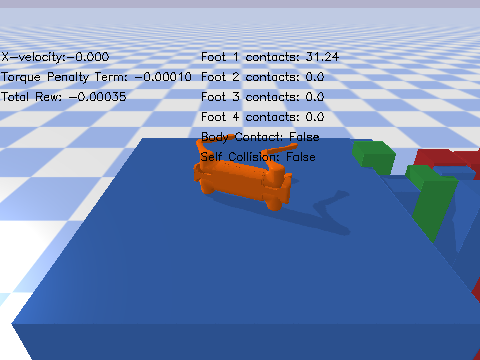
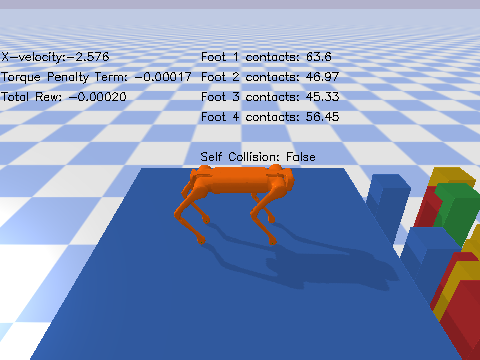
push before running the env for the first time

diff --git a/gym_aliengo/envs/aliengo_stepping_stones.py b/gym_aliengo/envs/aliengo_stepping_stones.py
@@ -25,10 +25,10 @@ class AliengoSteppingStones(gym.Env):
 
         # stepping stone parameters
         self.height = 1.0 # height of the heightfield
-        self.course_length = 10.0 # total distance from edge of start block to edge of end block
-        self.course_width = 2.0 # widght of path of stepping stones
+        self.course_length = 10.0 # total distance from edge of start block to edge of end block 
+        self.course_width = 2.0 # widght of path of stepping stones 
         self.stone_length = 0.25 # side length of square stepping stones
-        self.stone_density = 6.0 # stones per square meter
+        self.stone_density = 6.0 # stones per square meter 
         self.stone_height_range = 0.25 # heights of stones will be within [self.height - this/2, self.height + this/2 ]
 
         # heightmap parameters
@@ -36,6 +36,7 @@ class AliengoSteppingStones(gym.Env):
         self.robot_position = 0.5 # distance of robot base origin from back edge of height map
         self.grid_spacing = 0.125 
         assert self.length%self.grid_spacing == 0
+        self.grid_len = int(self.length/self.grid_spacing) + 1
 
 
         if self._is_render:
@@ -50,7 +51,7 @@ class AliengoSteppingStones(gym.Env):
         # urdfFlags = p.URDF_USE_SELF_COLLISION
         self.plane = p.loadURDF(os.path.join(os.path.dirname(__file__), '../urdf/plane.urdf'), 
                                 physicsClientId=self.client)
-        self.plane = p.loadURDF(os.path.join(os.path.dirname(__file__), '../urdf/plane.urdf'), 
+        _ = p.loadURDF(os.path.join(os.path.dirname(__file__), '../urdf/plane.urdf'), 
                                 physicsClientId=self.fake_client)
 
         self.quadruped = aliengo.Aliengo(pybullet_client=self.client, 
@@ -80,7 +81,7 @@ class AliengoSteppingStones(gym.Env):
 
         # (50) applied torque, pos, and vel for each motor, base orientation (quaternions), foot normal forces,
         # cartesian base acceleration, base angular velocity
-        self.state_space_dim = 12 * 3 + 4 + 4 + 3 + 3 + int(self.length/self.grid_spacing)  
+        self.state_space_dim = 12 * 3 + 4 + 4 + 3 + 3 + self.grid_len**2
         self.num_joints = 18 # This includes fixed joints from the URDF
         self.action_space_dim = self.quadruped.n_motors # this remains unchanged
 
@@ -122,6 +123,8 @@ class AliengoSteppingStones(gym.Env):
     def _is_non_foot_ground_contact(self): #TODO if I ever use this in this env, account for stepping stone contact
         """Detect if any parts of the robot, other than the feet, are touching the ground."""
 
+        raise NotImplementedError
+
         contact = False
         for i in range(self.num_joints):
             if i in self.quadruped.foot_links: # the feet themselves are allow the touch the ground
@@ -133,7 +136,9 @@ class AliengoSteppingStones(gym.Env):
 
 
     def _get_foot_contacts(self): 
-        '''Returns a numpy array of shape (4,) containing the normal forces on each foot with the ground. '''
+        '''
+        Returns a numpy array of shape (4,) containing the normal forces on each foot with any object in simulation. 
+        '''
 
         contacts = [0] * 4
         for i in range(len(self.quadruped.foot_links)):
@@ -282,18 +287,18 @@ class AliengoSteppingStones(gym.Env):
         base_y = self.base_position[1]
         base_z = self.base_position[2]
 
-        grid_len = int(self.length/self.grid_spacing) + 1
-        x = np.linspace(0, self.length, grid_len)
-        y = np.linspace(-self.length/2.0, self.length/2.0, grid_len)
+
+        x = np.linspace(0, self.length, self.grid_len)
+        y = np.linspace(-self.length/2.0, self.length/2.0, self.grid_len)
         coordinates = np.array(np.meshgrid(x,y))
         coordinates[0,:,:] += base_x - self.robot_position
         coordinates[1,:,:] += base_y  
-        # coordinates has shape (2, grid_len, grid_len)
-        coor_list = coordinates.reshape((2, grid_len**2)).swapaxes(0, 1) # is now shape (grid_len*grid_len,2) 
-        ray_start = np.append(coor_list, np.ones((grid_len**2, 1)) * (self.height + self.stone_height_range), axis=1)
-        ray_end = np.append(coor_list, np.zeros((grid_len**2, 1)) - 1, axis=1)
+        # coordinates has shape (2, self.grid_len, self.grid_len)
+        coor_list = coordinates.reshape((2, self.grid_len**2)).swapaxes(0, 1) # is now shape (self.grid_len**2,2) 
+        ray_start = np.append(coor_list, np.ones((self.grid_len**2, 1)) * (self.height + self.stone_height_range), axis=1)
+        ray_end = np.append(coor_list, np.zeros((self.grid_len**2, 1)) - 1, axis=1)
         raw_output = p.rayTestBatch(ray_start, ray_end, physicsClientId=self.fake_client) 
-        z_heights = np.array([raw_output[i][3][2] for i in range(grid_len**2)])
+        z_heights = np.array([raw_output[i][3][2] for i in range(self.grid_len**2)])
         relative_z_heights = z_heights - base_z
 
         if debug:
@@ -303,12 +308,12 @@ class AliengoSteppingStones(gym.Env):
             #             textColorRGB=[0,0,0],
             #             physicsClientId=self.client)
             # self._debug_ids.append(_id)
-            for i in range(grid_len):
-                for j in range(grid_len):
+            for i in range(self.grid_len):
+                for j in range(self.grid_len):
                     if show_xy:
-                        text = '%.2f, %.2f, %.2f'%(coordinates[0,i,j], coordinates[1,i,j], z_heights.reshape((grid_len, grid_len))[i,j])
+                        text = '%.2f, %.2f, %.2f'%(coordinates[0,i,j], coordinates[1,i,j], z_heights.reshape((self.grid_len, self.grid_len))[i,j])
                     else:
-                        text = '%.2f'%(z_heights.reshape((grid_len, grid_len))[i,j])
+                        text = '%.2f'%(z_heights.reshape((self.grid_len, self.grid_len))[i,j])
                     _id = p.addUserDebugText(text=text,
                                             textPosition=[coordinates[0,i,j], coordinates[1,i,j],self.height+0.5],
                                             textColorRGB=[0,0,0],
@@ -320,11 +325,14 @@ class AliengoSteppingStones(gym.Env):
                                             physicsClientId=self.client )
                     self._debug_ids.append(_id)
         
-        return relative_z_heights.reshape((grid_len, grid_len))
+        return relative_z_heights.reshape((self.grid_len, self.grid_len))
         
 
-    def render(self, client, mode='human'):
+    def render(self, client=None, mode='human'):
         '''Setting the render kwarg in the constructor determines if the env will render or not.'''
+
+        if client == None: # for some reason I can't use self.client as a default value in the function definition line.
+            client = self.client 
 
         RENDER_WIDTH = 480 
         RENDER_HEIGHT = 360
@@ -381,10 +389,10 @@ class AliengoSteppingStones(gym.Env):
                             ('Foot %d contacts: ' %(i+1)) + str(num), 
                             (200, 60 + 20 * i), 
                             FONT_HERSHEY_SIMPLEX, 0.375, (0,0,0))
-            img = putText(np.float32(img), 
-                            'Body Contact: ' + str(self._is_non_foot_ground_contact()), 
-                            (200, 60 + 20 * 4), 
-                            FONT_HERSHEY_SIMPLEX, 0.375, (0,0,0))
+            # img = putText(np.float32(img), 
+            #                 'Body Contact: ' + str(self._is_non_foot_ground_contact()), 
+            #                 (200, 60 + 20 * 4), 
+            #                 FONT_HERSHEY_SIMPLEX, 0.375, (0,0,0))
             img = putText(np.float32(img), 
                             'Self Collision: ' + str(self.quadruped.self_collision()), 
                             (200, 60 + 20 * 5), 
@@ -412,7 +420,8 @@ class AliengoSteppingStones(gym.Env):
                                         -0.78 * np.ones(4), # this is for base orientation in quaternions
                                         np.zeros(4), # foot normal forces
                                         -1e5 * np.ones(3), # cartesian acceleration (arbitrary bound)
-                                        -1e5 * np.ones(3))) # angular velocity (arbitrary bound)
+                                        -1e5 * np.ones(3), # angular velocity (arbitrary bound)
+                                        -np.ones(self.grid_len**2) * (self.height + self.stone_height_range/2.0 + 5))) # 5 is a safe arbitrary value 
 
         observation_ub = np.concatenate((torque_ub, 
                                         position_ub, 
@@ -420,7 +429,8 @@ class AliengoSteppingStones(gym.Env):
                                         0.78 * np.ones(4),
                                         1e4 * np.ones(4), # arbitrary bound
                                         1e5 * np.ones(3),
-                                        1e5 * np.ones(3)))
+                                        1e5 * np.ones(3),
+                                        np.ones(self.grid_len**2) * (self.height + self.stone_height_range/2.0 + 5)))
 
 
         return observation_lb, observation_ub
@@ -471,8 +481,8 @@ class AliengoSteppingStones(gym.Env):
                                     self.base_orientation,
                                     self.foot_normal_forces,
                                     self.cartesian_base_accel,
-                                    self.base_twist[3:],
-                                    self._get_heightmap().flatten())) # last item is base angular velocity
+                                    self.base_twist[3:], # base angular velocity
+                                    self._get_heightmap().flatten())) 
         
         if np.isnan(self.state).any():
             print('nans in state')
